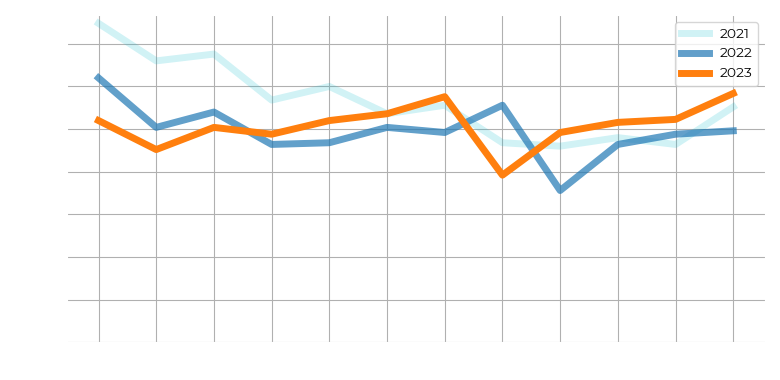
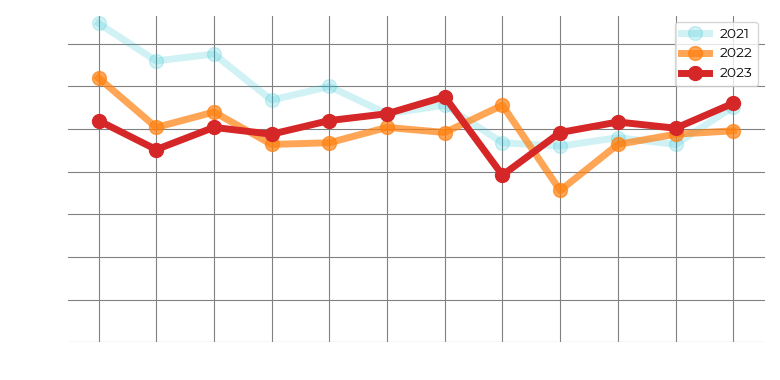
Tot en met half oktober. Statistical info added.

diff --git a/statistical-info.py b/statistical-info.py
@@ -2,68 +2,104 @@ import pandas as pd
 from numpy import *
 df = pd.read_csv('energie-stats.csv')
 
-gasHdg = df['g']
-gasVrgJr = df['g-1']
-gasVrgJr2 = df['g-2']
+gasDitJaar = df['g']
+gasDitJaarMin1 = df['g-1']
+gasDitJaarMin2 = df['g-2']
 
-eleHdg = df['e']
-eleVrgJr = df['e-1']
-eleVrgJr2 = df['e-2']
+eleDitJaar = df['e']
+eleDitJaarMin1 = df['e-1']
+eleDitJaarMin2 = df['e-2']
 
-watHdg = df['w']
-watVrgJr = df['w-1']
-watVrgJr2 = df['w-2']
+watDitJaar = df['w']
+watDitJaarMin1 = df['w-1']
+watDitJaarMin2 = df['w-2']
 
-gasHdgStd = round(std(gasHdg), 1)
-gasVrgJrStd = round(std(gasVrgJr), 1)
-gasVrgJr2Std = round(std(gasVrgJr2), 1)
-gasHdgGem = round(gasHdg.mean(), 1)
-gasVrgJrGem = round(gasVrgJr.mean(), 1)
-gasVrgJr2Gem = round(gasVrgJr2.mean(), 1)
-gasHdgMed = round(gasHdg.median(), 1)
-gasVrgJrMed = round(gasVrgJr.median(), 1)
-gasVrgJr2Med = round(gasVrgJr2.median(), 1)
+gasDitJaarStd = round(std(gasDitJaar), 1)
+gasDitJaarMin1Std = round(std(gasDitJaarMin1), 1)
+gasDitJaarMin2Std = round(std(gasDitJaarMin2), 1)
+gasDitJaarGem = round(gasDitJaar.mean(), 1)
+gasDitJaarMin1Gem = round(gasDitJaarMin1.mean(), 1)
+gasDitJaarMin2Gem = round(gasDitJaarMin2.mean(), 1)
+gasDitJaarMed = round(gasDitJaar.median(), 1)
+gasDitJaarMin1Med = round(gasDitJaarMin1.median(), 1)
+gasDitJaarMin2Med = round(gasDitJaarMin2.median(), 1)
 
-eleVrgJrStd = round(std(eleVrgJr), 1)
-eleHdgStd = round(std(eleHdg), 1)
-eleVrgJr2Std = round(std(eleVrgJr2), 1)
-eleHdgGem = round(eleHdg.mean(), 1)
-eleVrgJrGem = round(eleVrgJr.mean(), 1)
-eleVrgJr2Gem = round(eleVrgJr2.mean(), 1)
-eleHdgMed = round(eleHdg.median(), 1)
-eleVrgJrMed = round(eleVrgJr.median(), 1)
-eleVrgJr2Med = round(eleVrgJr2.median(), 1)
+eleDitJaarMin1Std = round(std(eleDitJaarMin1), 1)
+eleDitJaarStd = round(std(eleDitJaar), 1)
+eleDitJaarMin2Std = round(std(eleDitJaarMin2), 1)
+eleDitJaarGem = round(eleDitJaar.mean(), 1)
+eleDitJaarMin1Gem = round(eleDitJaarMin1.mean(), 1)
+eleDitJaarMin2Gem = round(eleDitJaarMin2.mean(), 1)
+eleDitJaarMed = round(eleDitJaar.median(), 1)
+eleDitJaarMin1Med = round(eleDitJaarMin1.median(), 1)
+eleDitJaarMin2Med = round(eleDitJaarMin2.median(), 1)
 
-watHdgStd = round(std(watHdg), 1)
-watVrgJrStd = round(std(watVrgJr), 1)
-watVrgJr2Std = round(std(watVrgJr2), 1)
-watHdgGem = round(watHdg.mean(), 1)
-watVrgJrGem = round(watVrgJr.mean(), 1)
-watVrgJr2Gem = round(watVrgJr2.mean(), 1)
-watHdgMed = round(watHdg.median(), 1)
-watVrgJrMed = round(watVrgJr.median(), 1)
-watVrgJr2Med = round(watVrgJr2.median(), 1)
+watDitJaarStd = round(std(watDitJaar), 1)
+watDitJaarMin1Std = round(std(watDitJaarMin1), 1)
+watDitJaarMin2Std = round(std(watDitJaarMin2), 1)
+watDitJaarGem = round(watDitJaar.mean(), 1)
+watDitJaarMin1Gem = round(watDitJaarMin1.mean(), 1)
+watDitJaarMin2Gem = round(watDitJaarMin2.mean(), 1)
+watDitJaarMed = round(watDitJaar.median(), 1)
+watDitJaarMin1Med = round(watDitJaarMin1.median(), 1)
+watDitJaarMin2Med = round(watDitJaarMin2.median(), 1)
 
-def toonData(soort, dat1, dat2, dat3):
-    print("\t", soort, "\t",
-          dat1, " (", round(dat1-dat2, 1), ")\t",
-          dat2, " (", round(dat2-dat3, 1), ")\t",
-          dat3)
+def toon(jrStd, jrmin1Std, jrmin2Std, jrGem, jrmin1Gem, jrmin2Gem,
+         jrMed, jrmin1Med, jrmin2Med):
+    print("\t2023\t", jrStd, " (", round(jrStd-jrmin2Std, 1), ")\t",
+          jrGem, " (", round(jrGem-jrmin2Gem, 1), ")\t",
+          jrMed, " (", round(jrMed-jrmin2Med, 1), ")", sep="")
+    print("\t2022\t", jrmin1Std, " (", round(jrmin1Std-jrmin2Std, 1), ")\t",
+          jrmin1Gem, " (", round(jrmin1Gem-jrmin2Gem, 1), ")\t",
+          jrmin1Med, " (", round(jrmin1Med-jrmin2Med, 1), ")", sep="")
+    print("\t2021\t", jrmin2Std, "\t\t", jrmin2Gem, "\t\t", jrmin2Med, sep="")
 
-def printJaren():
-    print("\t\t\t2023\t\t2022\t\t2021")
+print("GAS (m3)\tStdDev\t\tAvg\t\tMed")
+toon(gasDitJaarStd, gasDitJaarMin1Std, gasDitJaarMin2Std,
+     gasDitJaarGem, gasDitJaarMin1Gem, gasDitJaarMin2Gem,
+     gasDitJaarMed, gasDitJaarMin1Med, gasDitJaarMin2Med)
+print("ELEKTRICITEIT (kWh)")
+toon(eleDitJaarStd, eleDitJaarMin1Std, eleDitJaarMin2Std,
+     eleDitJaarGem, eleDitJaarMin1Gem, eleDitJaarMin2Gem,
+     eleDitJaarMed, eleDitJaarMin1Med, eleDitJaarMin2Med)
+print("WATER (m3)")
+toon(watDitJaarStd, watDitJaarMin1Std, watDitJaarMin2Std,
+     watDitJaarGem, watDitJaarMin1Gem, watDitJaarMin2Gem,
+     watDitJaarMed, watDitJaarMin1Med, watDitJaarMin2Med)
 
-#printJaren()
-print("Gas")
-toonData("StdDev", gasHdgStd, gasVrgJrStd, gasVrgJr2Std)
-toonData("Gem\t", gasHdgGem, gasVrgJrGem, gasVrgJr2Gem)
-toonData("Med\t", gasHdgMed, gasVrgJrMed, gasVrgJr2Med)
-print("\nEle")
-toonData("StdDev", eleHdgStd, eleVrgJrStd, eleVrgJr2Std)
-toonData("Gem\t", eleHdgGem, eleVrgJrGem, eleVrgJr2Gem)
-toonData("Med\t", eleHdgMed, eleVrgJrMed, eleVrgJr2Med)
-print("\nWat")
-toonData("StdDev", watHdgStd, watVrgJrStd, watVrgJr2Std)
-toonData("Gem\t", watHdgGem, watVrgJrGem, watVrgJr2Gem)
-toonData("Med\t", watHdgMed, watVrgJrMed, watVrgJr2Med)
-   
+def schrijfCsvData():
+    strCsvData = ("gStd,gStdDiff,gGem,gGemDiff,gMed,gMedDiff,"
+                  + "eStd,eStdDiff,eGem,eGemDiff,eMed,eMedDiff,"
+                  + "wStd,wStdDiff,wGem,wGemDiff,wMed,wMedDiff\n"
+                  + str("%.1f," % gasDitJaarStd) + str("%.1f," % round(gasDitJaarStd-gasDitJaarMin2Std, 1))
+                  + str("%.1f," % gasDitJaarGem) + str("%.1f," % round(gasDitJaarGem-gasDitJaarMin2Gem, 1))
+                  + str("%.1f," % gasDitJaarMed) + str("%.1f," % round(gasDitJaarMed-gasDitJaarMin2Med, 1))
+                  + str("%.1f," % eleDitJaarStd) + str("%.1f," % round(eleDitJaarStd-eleDitJaarMin2Std, 1))
+                  + str("%.1f," % eleDitJaarGem) + str("%.1f," % round(eleDitJaarGem-eleDitJaarMin2Gem, 1))
+                  + str("%.1f," % eleDitJaarMed) + str("%.1f," % round(eleDitJaarMed-eleDitJaarMin2Med, 1))
+                  + str("%.1f," % watDitJaarStd) + str("%.1f," % round(watDitJaarStd-watDitJaarMin2Std, 1))
+                  + str("%.1f," % watDitJaarGem) + str("%.1f," % round(watDitJaarGem-watDitJaarMin2Gem, 1))
+                  + str("%.1f," % watDitJaarMed) + str("%.1f\n" % round(watDitJaarMed-watDitJaarMin2Med, 1))
+                  + str("%.1f," % gasDitJaarMin1Std) + str("%.1f," % round(gasDitJaarMin1Std-gasDitJaarMin2Std, 1))
+                  + str("%.1f," % gasDitJaarMin1Gem) + str("%.1f," % round(gasDitJaarMin1Gem-gasDitJaarMin2Gem, 1))
+                  + str("%.1f," % gasDitJaarMin1Med) + str("%.1f," % round(gasDitJaarMin1Med-gasDitJaarMin2Med, 1))
+                  + str("%.1f," % eleDitJaarMin1Std) + str("%.1f," % round(eleDitJaarMin1Std-eleDitJaarMin2Std, 1))
+                  + str("%.1f," % eleDitJaarMin1Gem) + str("%.1f," % round(eleDitJaarMin1Gem-eleDitJaarMin2Gem, 1))
+                  + str("%.1f," % eleDitJaarMin1Med) + str("%.1f," % round(eleDitJaarMin1Med-eleDitJaarMin2Med, 1))
+                  + str("%.1f," % watDitJaarMin1Std) + str("%.1f," % round(watDitJaarMin1Std-watDitJaarMin2Std, 1))
+                  + str("%.1f," % watDitJaarMin1Gem) + str("%.1f," % round(watDitJaarMin1Gem-watDitJaarMin2Gem, 1))
+                  + str("%.1f," % watDitJaarMin1Med) + str("%.1f\n" % round(watDitJaarMin1Med-watDitJaarMin2Med, 1))
+                  + str("%.1f," % gasDitJaarMin2Std) + "0.0,"
+                  + str("%.1f," % gasDitJaarMin2Gem) + "0,0,"
+                  + str("%.1f," % gasDitJaarMin2Med) + "0.0,"
+                  + str("%.1f," % eleDitJaarMin2Std) + "0.0,"
+                  + str("%.1f," % eleDitJaarMin2Gem) + "0,0,"
+                  + str("%.1f," % eleDitJaarMin2Med) + "0.0,"
+                  + str("%.1f," % watDitJaarMin2Std) + "0.0,"
+                  + str("%.1f," % watDitJaarMin2Gem) + "0,0,"
+                  + str("%.1f," % watDitJaarMin2Med) + "0.0\n")
+    f = open("stats-energiedata.csv", "w")
+    f.write(strCsvData)
+    f.close()
+
+schrijfCsvData()

diff --git a/energieverbruik.py b/energieverbruik.py
@@ -40,12 +40,12 @@ VORIG_JAAR = HUIDIG_JAAR - 1
 #
 # INVOEREN GEGEVENS HUIDIGE JAAR
 #
-MAAND = Month.sep
-DAG_VAN_MAAND = 30
-DAGEN_IN_MAAND = 30
-VERBRUIK_GAS = 19
-VERBRUIK_ELEKTRICITEIT = 123
-VERBRUIK_WATER = 9
+MAAND = Month.okt
+DAG_VAN_MAAND = 12
+DAGEN_IN_MAAND = 31
+VERBRUIK_GAS = 11
+VERBRUIK_ELEKTRICITEIT = 50
+VERBRUIK_WATER = 3
 PRIJS_GAS = 1.39006
 PRIJS_ELEKTRICITEIT = 0.39802
 PRIJS_WATER = 1.021
@@ -332,17 +332,17 @@ def GrafiekGas():
     # Grafiek gasverbruik
     plotGas.figure()
     plotGas.plot(maanden, df['vrbr_gas_VrgJr2'], color='tab:cyan', label="2021",
-                 linewidth=5, alpha=0.2)
-    plotGas.plot(maanden, df['vrbr_gas_VrgJr'], color='tab:blue', label="2022",
-                 linewidth=5, alpha=0.7)
-    plotGas.plot(maanden, schatVerbrGasHdgJr, color='tab:orange',
-                 label="2023", linewidth=5)
+                 linewidth=5, alpha=0.2, marker='o', ms=10)
+    plotGas.plot(maanden, df['vrbr_gas_VrgJr'], color='tab:orange', label="2022",
+                 linewidth=5, alpha=0.7, marker='o', ms=10)
+    plotGas.plot(maanden, schatVerbrGasHdgJr, color='tab:red',
+                 label="2023", linewidth=5, marker='o', ms=10)
     #plotGas.title("Gas", color='White')
     #plotGas.xlabel("maand", color='White')
     plotGas.ylabel("verbruik (m3)", color='White')
     plotGas.tick_params(colors='White')
     plotGas.ylim(bottom=0)
-    plotGas.grid()
+    plotGas.grid(color='Gray')
     plotGas.legend()
     plotGas.tight_layout()
     plotGas.savefig('gasverbruik.png', dpi=100, transparent=True)
@@ -353,17 +353,17 @@ def GrafiekElektriciteit():
     # Grafiek elektriciteitsverbruik
     plotEle.figure()
     plotEle.plot(maanden, df['vrbr_ele_VrgJr2'], color='tab:cyan', label="2021",
-                 linewidth=5, alpha=0.2)
-    plotEle.plot(maanden, df['vrbr_ele_VrgJr'], color='tab:blue', label="2022",
-                 linewidth=5, alpha=0.7)
+                 linewidth=5, alpha=0.2, marker='o', ms=10)
+    plotEle.plot(maanden, df['vrbr_ele_VrgJr'], color='tab:orange', label="2022",
+                 linewidth=5, alpha=0.7, marker='o', ms=10)
     plotEle.plot(maanden, schatVerbrEleHdgJr,
-                 color='tab:orange', label="2023", linewidth=5)
+                 color='tab:red', label="2023", linewidth=5, marker='o', ms=10)
     #plotEle.title("Elektriciteit", color='White')
     #plotEle.xlabel("maand", color='White')
     plotEle.ylabel("verbruik (kWh)", color='White')
     plotEle.tick_params(colors='White')
     plotEle.ylim(bottom=0)
-    plotEle.grid()
+    plotEle.grid(color='Gray')
     plotEle.legend()
     plotEle.tight_layout()
     plotEle.savefig('elektriciteitsverbruik.png', dpi=100, transparent=True)
@@ -374,17 +374,17 @@ def GrafiekWater():
     # Grafiek waterverbruik
     plotWat.figure()
     plotWat.plot(maanden, df['vrbr_wat_VrgJr2'], color='tab:cyan', label="2021",
-                 linewidth=5, alpha=0.2)
-    plotWat.plot(maanden, df['vrbr_wat_VrgJr'], color='tab:blue', label="2022",
-                 linewidth=5, alpha=0.7)
-    plotWat.plot(maanden, schatVerbrWatHdgJr, color='tab:orange',
-                 label="2023", linewidth=5)
+                 linewidth=5, alpha=0.2, marker='o', ms=10)
+    plotWat.plot(maanden, df['vrbr_wat_VrgJr'], color='tab:orange', label="2022",
+                 linewidth=5, alpha=0.7, marker='o', ms=10)
+    plotWat.plot(maanden, schatVerbrWatHdgJr, color='tab:red',
+                 label="2023", linewidth=5, marker='o', ms=10)
     #plotWat.title("Water", color='White')
     #plotWat.xlabel("maand", color='White')
     plotWat.ylabel("verbruik (m3)", color='White')
     plotWat.tick_params(colors='White')
     plotWat.ylim(bottom=0)
-    plotWat.grid()
+    plotWat.grid(color='Gray')
     plotWat.legend()
     plotWat.tight_layout()
     plotWat.savefig('waterverbruik.png', dpi=100, transparent=True)
